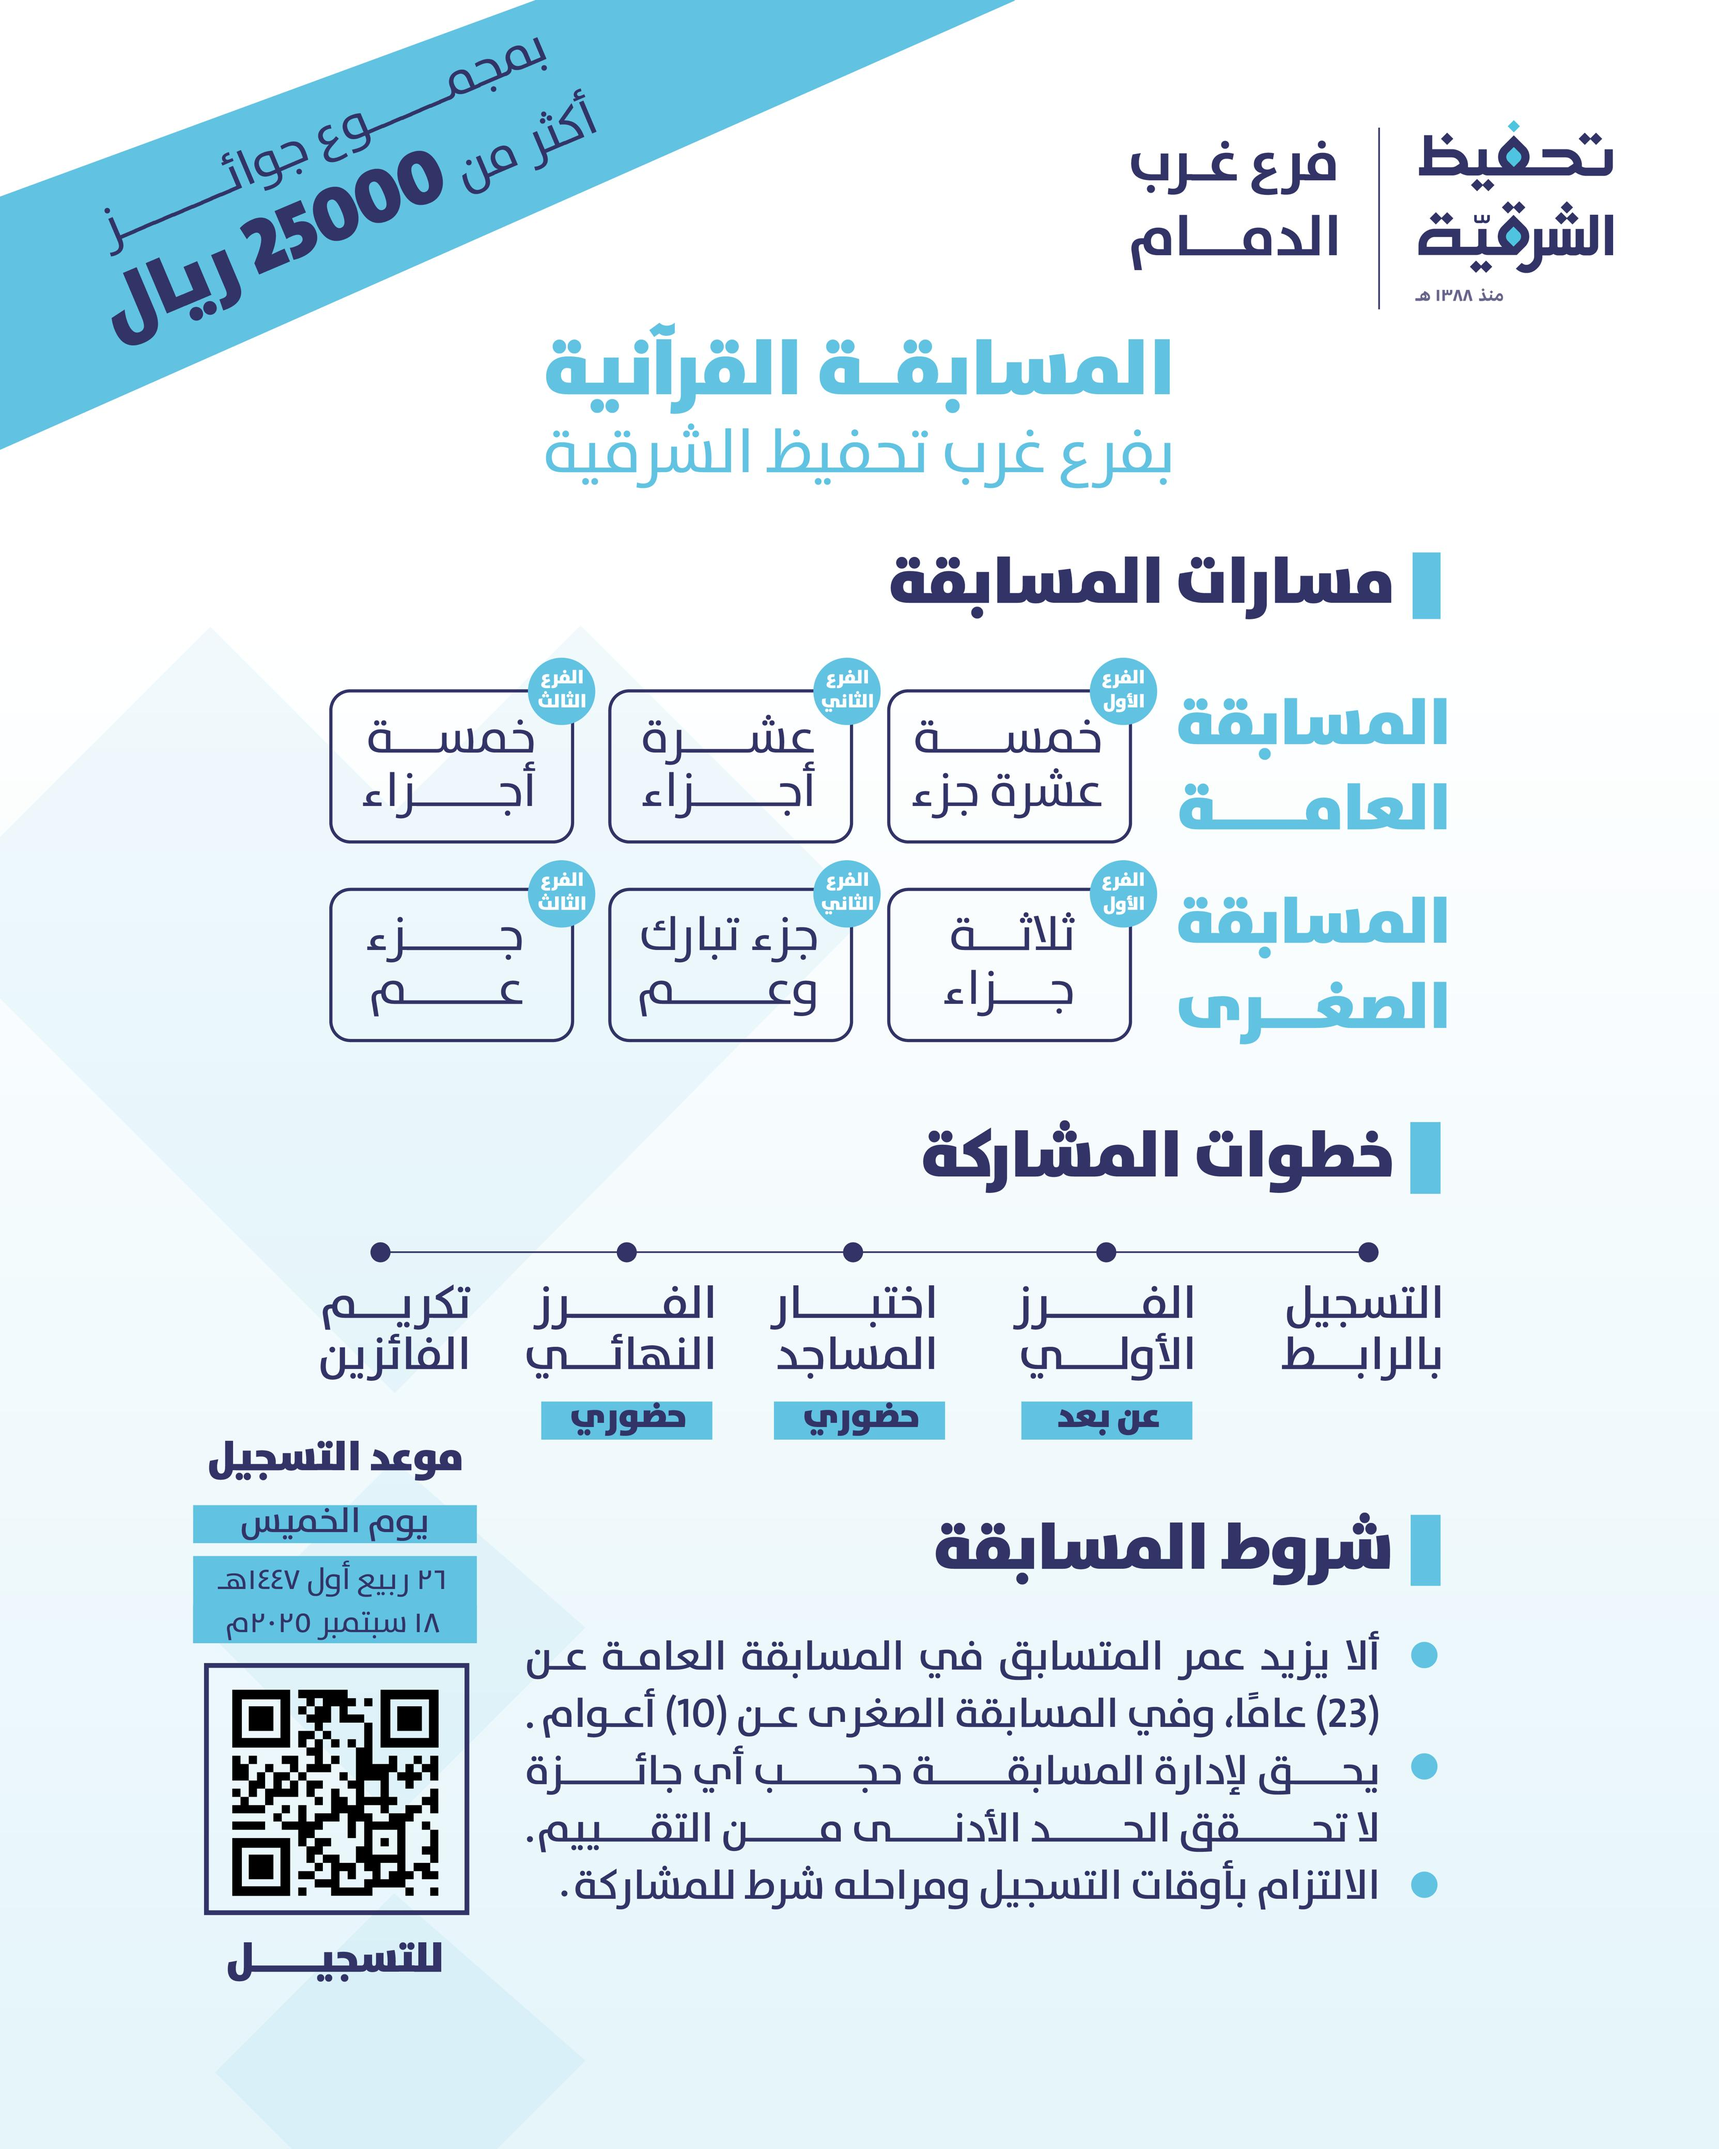
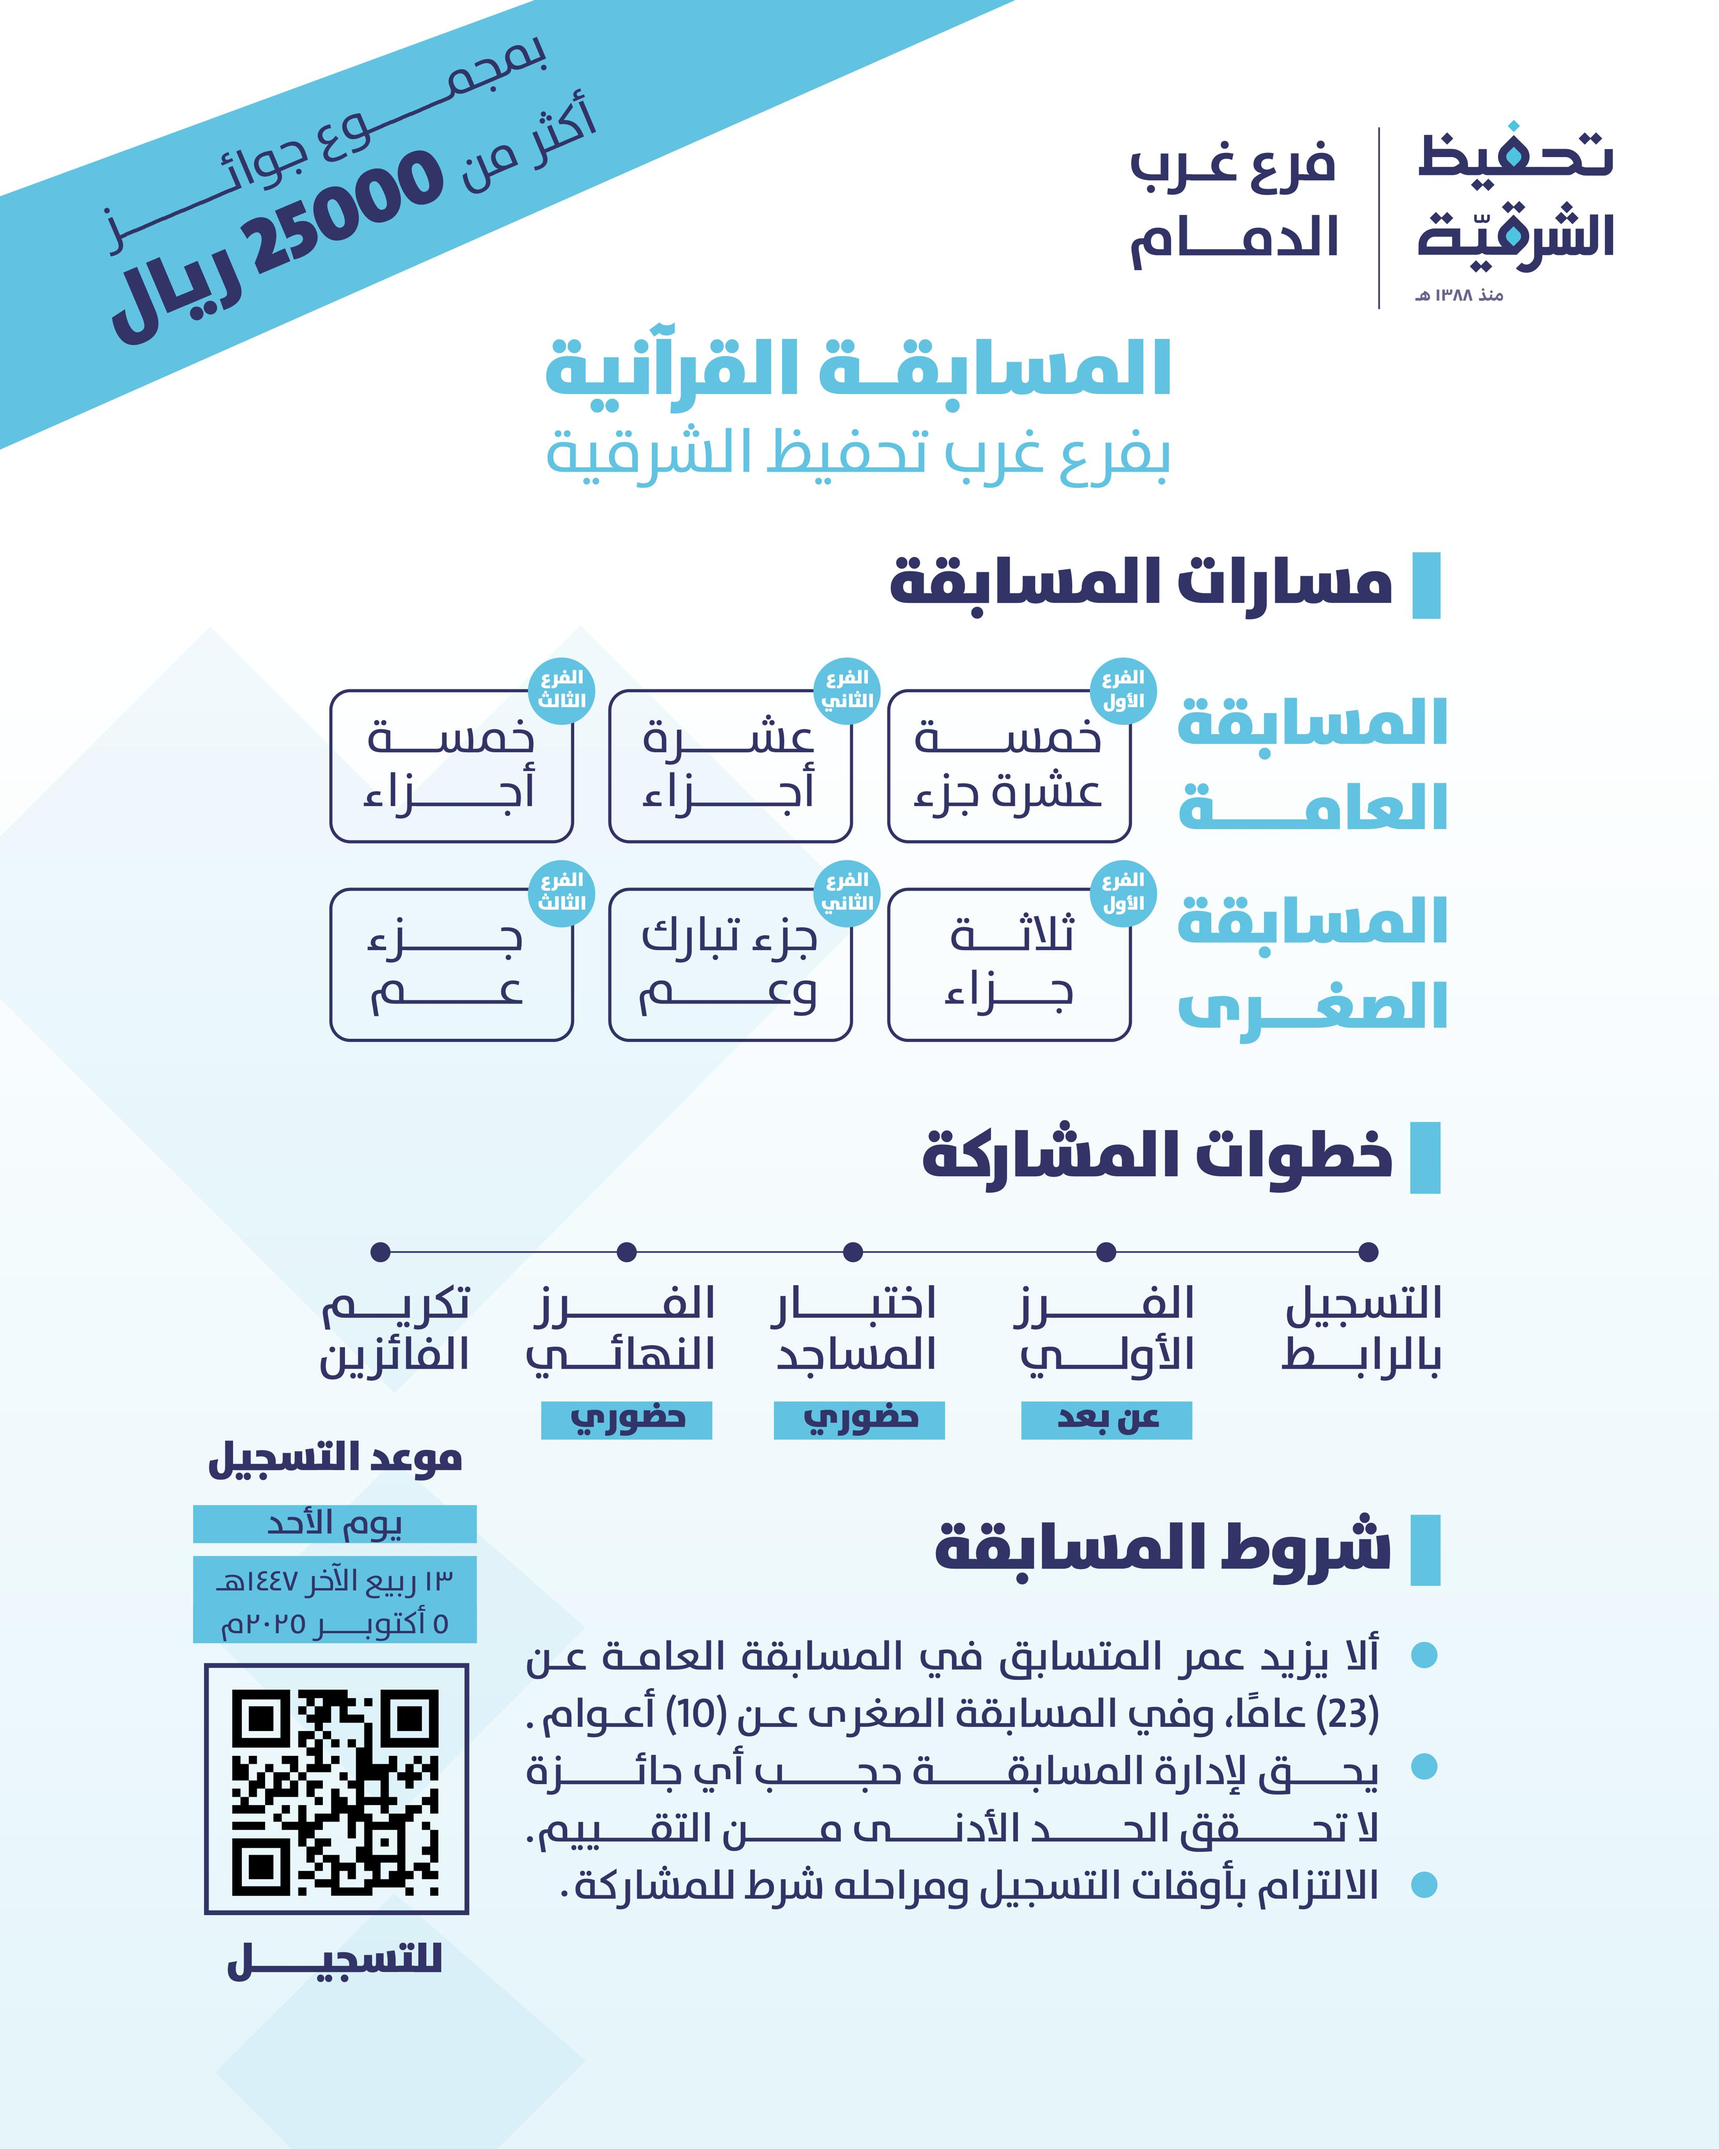
إعادة تفعيل نظام التحقق من تواريخ التسجيل وإصلاح مشاكل الأزرار والصوت

Changed region(s): [[0.1238, 0.6875, 0.2477, 0.7812], [0.6501, 0.1875, 0.6811, 0.2188], [0.3405, 0.1875, 0.3715, 0.2188]]

diff --git a/app.js b/app.js
@@ -11,8 +11,8 @@ const API_URL = 'https://script.google.com/macros/s/AKfycbzGckBDZ8J4smorv7aNA_Eu
 const OFFLINE_MODE = false; // تغيير إلى true للعمل بدون API
 
 // Registration dates
-const REGISTRATION_START = new Date('2025-09-25T00:00:00+03:00'); // 25 سبتمبر 2025
-const REGISTRATION_END = new Date('2025-10-09T23:59:59+03:00'); // 9 أكتوبر 2025 (بعد أسبوعين)
+const REGISTRATION_START = new Date('2025-10-05T00:00:00+03:00'); // 5 أكتوبر 2025
+const REGISTRATION_END = new Date('2025-10-19T23:59:59+03:00'); // 19 أكتوبر 2025 (بعد أسبوعين)
 
 // Countdown variables
 let countdownInterval;
